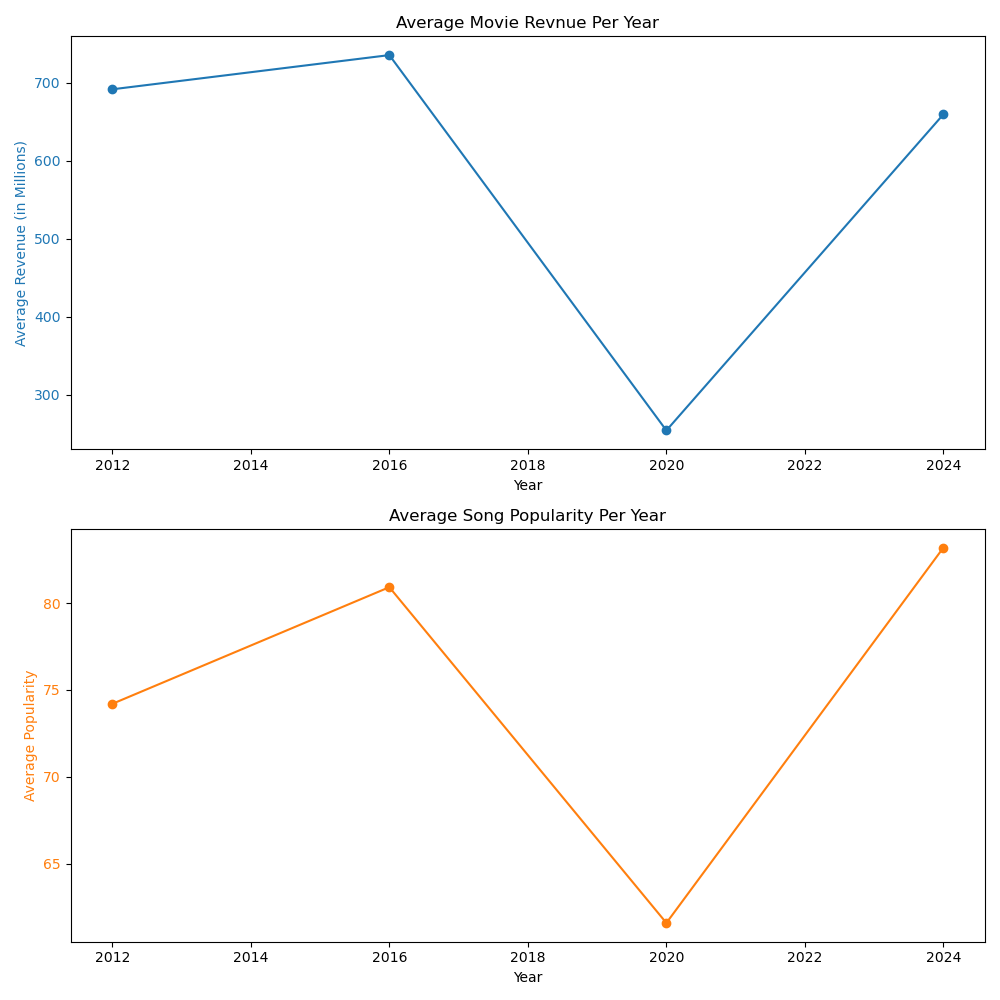
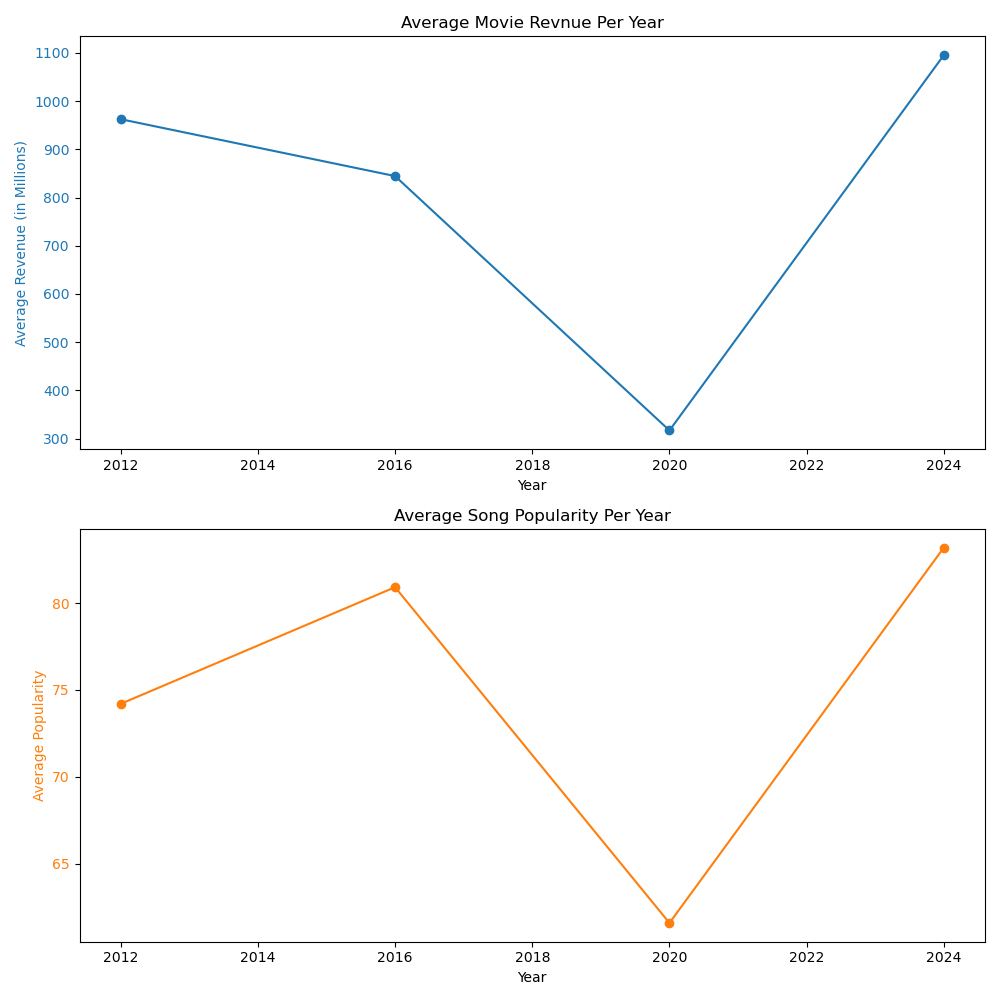
mia fixed dash visualizaiton code

diff --git a/dash_visualizations.py b/dash_visualizations.py
@@ -1,7 +1,7 @@
 import sqlite3
 import matplotlib.pyplot as plt
 
-conn = sqlite3.connect('sql_processing.db')
+conn = sqlite3.connect('sql_processing_clean.db')
 cursor = conn.cursor()
 
 cursor.execute("""
@@ -10,7 +10,7 @@ cursor.execute("""
         AVG(tgm.revenue) AS avg_revenue, 
         AVG(tr.popularity) AS avg_popularity
     FROM 
-        top_grossing_movies tgm
+        box_office_movies tgm
     JOIN 
         tracks tr ON tgm.year = tr.year  -- assuming 'year' column is common
     GROUP BY 
